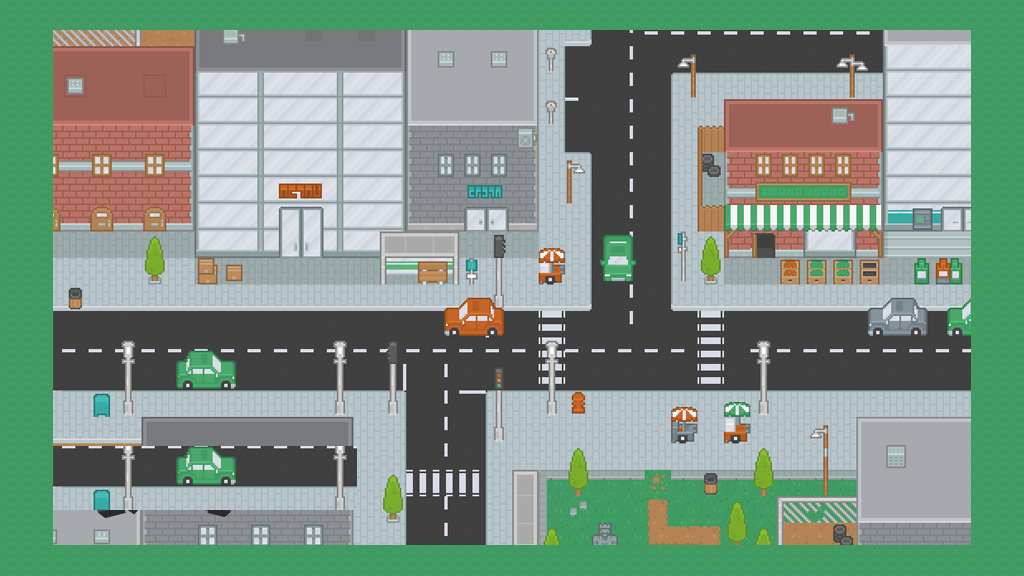
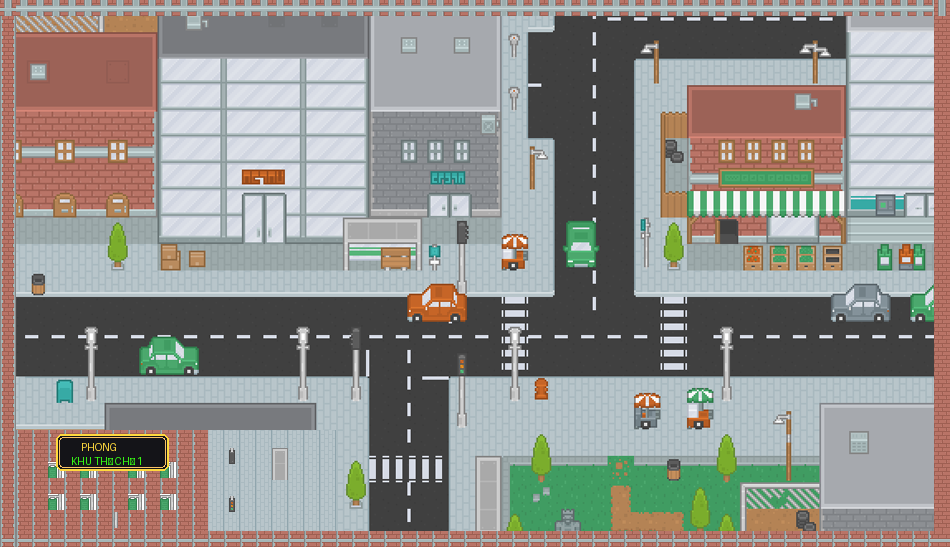
feat: wrap screen with 1-block red brick border, replace glitch with PHONG institutional building, and tighten padding

diff --git a/src/game/scenes/HubScene.ts b/src/game/scenes/HubScene.ts
@@ -55,27 +55,26 @@ export class HubScene extends Scene {
     const { width, height } = this.scale;
     this.interactiveTargets = [];
 
-    // 1. Lớp nền thành phố chuẩn mực (1024x576)
+    // 1. Lớp nền thành phố có viền 1 block gạch đỏ bao quanh toàn màn hình (950x547)
     this.add
       .image(0, 0, 'city-base')
       .setOrigin(0, 0)
       .setDisplaySize(width, height);
 
     // ============================================================
-    // 2. CỬA RA VÀO CÁC TÒA NHÀ TRÊN VỈA HÈ (GROUND-LEVEL ENTRANCES)
-    // Người chơi đi trên vỉa hè (y ~ 220-240) và bước vào cửa chính
+    // 2. CỬA TÒA NHÀ MẶT ĐẤT TRÊN VỈA HÈ (GROUND-LEVEL DOORS)
     // ============================================================
 
-    // 📚 Thư Viện Tri Thức (Cửa tại x=128, y=235)
+    // 📚 Thư Viện Tri Thức (Cửa tại x=101, y=220)
     this.createBuildingPortal({
-      x: 128,
-      y: 235,
-      w: 90,
-      h: 50,
+      x: 101,
+      y: 220,
+      w: 85,
+      h: 40,
       label: 'Thư Viện Tri Thức',
       icon: '📚',
       color: 0x10b981,
-      doorY: 200,
+      doorY: 190,
       onClick: () => {
         EventBus.emit('request-transition', {
           target: 'knowledge',
@@ -85,16 +84,16 @@ export class HubScene extends Scene {
       },
     });
 
-    // 🔭 Đài Quan Sát (Cửa tại x=318, y=235)
+    // 🔭 Đài Quan Sát (Cửa tại x=281, y=220)
     this.createBuildingPortal({
-      x: 318,
-      y: 235,
+      x: 281,
+      y: 220,
       w: 80,
-      h: 50,
+      h: 40,
       label: 'Đài Quan Sát',
       icon: '🔭',
       color: 0x0ea5e9,
-      doorY: 200,
+      doorY: 190,
       onClick: () => {
         EventBus.emit('request-transition', {
           target: 'knowledge',
@@ -104,16 +103,16 @@ export class HubScene extends Scene {
       },
     });
 
-    // 🎯 Tòa Thử Thách (Cửa kính lớn tại x=543, y=235)
+    // 🎯 Tòa Thử Thách (Cửa kính lớn tại x=496, y=220)
     this.createBuildingPortal({
-      x: 543,
-      y: 235,
-      w: 120,
-      h: 50,
+      x: 496,
+      y: 220,
+      w: 110,
+      h: 45,
       label: 'Tòa Thử Thách',
       icon: '🎯',
       color: 0xf59e0b,
-      doorY: 195,
+      doorY: 185,
       onClick: () => {
         EventBus.emit('request-transition', {
           target: 'quiz',
@@ -123,16 +122,16 @@ export class HubScene extends Scene {
       },
     });
 
-    // 🗄 Chợ Thuật Ngữ (Cửa mái hiên tại x=763, y=235)
+    // 🗄 Chợ Thuật Ngữ (Cửa mái hiên tại x=716, y=220)
     this.createBuildingPortal({
-      x: 763,
-      y: 235,
-      w: 100,
-      h: 50,
+      x: 716,
+      y: 220,
+      w: 95,
+      h: 40,
       label: 'Chợ Thuật Ngữ',
       icon: '🗄',
       color: 0x14b8a6,
-      doorY: 195,
+      doorY: 185,
       onClick: () => {
         EventBus.emit('request-transition', {
           target: 'knowledge',
@@ -141,17 +140,36 @@ export class HubScene extends Scene {
         });
       },
     });
+
+    // 🏛 KHU THỂ CHẾ 1 (TÒA NHÀ PHONG & QUẢN LÝ THỂ CHẾ - Góc Tây Nam)
+    this.createBuildingPortal({
+      x: 112,
+      y: 496,
+      w: 100,
+      h: 45,
+      label: 'Trụ Sở Thể Chế (Khu 1)',
+      icon: '🏛',
+      color: 0xef4444,
+      doorY: 450,
+      onClick: () => {
+        EventBus.emit('request-transition', {
+          target: 'battle',
+          label: 'Khu Thể Chế 1 • Tòa Nhà PHONG',
+          variant: 'battle',
+        });
+      },
+    });
+
     // ============================================================
-    // 3. LỐI ĐI SANG CÁC MAP MỚI (ROAD TRANSITION PORTALS)
+    // 3. CÁC LỐI ĐI SANG MAP MỚI (ROAD TRANSITIONS)
     // ============================================================
 
     // ⬇ CỔNG NAM: ĐƯỜNG ĐẾN PHỐ THỂ CHẾ (KHU 1)
-    // Nằm ở cuối đường đi bộ phía Nam ngã ba (x=543, y=510)
     this.createRoadPortal({
-      x: 543,
-      y: 505,
+      x: 506,
+      y: 495,
       w: 160,
-      h: 40,
+      h: 36,
       label: 'Phố Thể Chế (Khu 1)',
       icon: '⬇',
       color: 0xef4444,
@@ -165,16 +183,15 @@ export class HubScene extends Scene {
     });
 
     // ➡ CỔNG ĐÔNG: CHỐT CHẶN QUA PHỐ LỢI ÍCH (KHU 2 - NƠI CỨU PHONG)
-    // Nằm ở đầu đại lộ phía Đông (x=895, y=285)
     this.createEastDistrict2Checkpoint(width, height, isKhu2Open);
 
     // ============================================================
-    // 4. NHÂN VẬT NGƯỜI CHƠI (SPAWN TẠI VỈA HÈ CÔNG VIÊN AN TOÀN)
+    // 4. NHÂN VẬT NGƯỜI CHƠI (SPAWN TẠI CÔNG VIÊN TRUNG TÂM)
     // ============================================================
-    this.createPlayer(480, 410, progress.playerName || 'Nhà Cải Cách');
+    this.createPlayer(456, 406, progress.playerName || 'Nhà Cải Cách');
 
     // ============================================================
-    // 5. BONG BÓNG TƯƠNG TÁC
+    // 5. BONG BÓNG NHẮC NHỞ TƯƠNG TÁC
     // ============================================================
     this.createProximityPrompt();
 
@@ -184,14 +201,14 @@ export class HubScene extends Scene {
     this.add
       .text(
         width / 2,
-        height - 12,
+        height - 10,
         '🎮 Dùng [W-A-S-D] / [Mũi Tên] đi đến cửa tòa nhà hoặc đầu đường để chuyển map • Hoặc nhấp chuột trực tiếp!',
         {
           fontFamily: 'Be Vietnam Pro',
-          fontSize: '10.5px',
+          fontSize: '10px',
           color: '#fef08a',
-          backgroundColor: '#0a0a0fee',
-          padding: { x: 12, y: 3 },
+          backgroundColor: '#0a0a0ff0',
+          padding: { x: 12, y: 2 },
           fontStyle: 'bold',
         }
       )
@@ -307,9 +324,9 @@ export class HubScene extends Scene {
 
     if (isMoving) {
       this.lastFacing = facing;
-      // Giới hạn vùng di chuyển của nhân vật an toàn trong phạm vi vỉa hè & đường phố (KHÔNG RA NGOÀI RÌA MAP)
-      this.player.x = Phaser.Math.Clamp(this.player.x + dx, 60, this.scale.width - 60);
-      this.player.y = Phaser.Math.Clamp(this.player.y + dy, 220, this.scale.height - 45);
+      // Di chuyển an toàn bên trong viền gạch đỏ (1 block = 16px): từ x: 24..926, y: 210..523
+      this.player.x = Phaser.Math.Clamp(this.player.x + dx, 26, this.scale.width - 26);
+      this.player.y = Phaser.Math.Clamp(this.player.y + dy, 215, this.scale.height - 30);
 
       this.walkStepTimer += delta;
       if (this.walkStepTimer > 150) {
@@ -359,23 +376,17 @@ export class HubScene extends Scene {
     }
   }
 
-  /**
-   * Tạo cửa tòa nhà ở mặt đất trên vỉa hè (Ground-level entrance)
-   * Kèm thảm phát sáng và biển hiệu phía trên cửa
-   */
   private createBuildingPortal(options: InteractivePortal) {
     this.interactiveTargets.push(options);
     const { x, y, w, h, label, icon, color, onClick, doorY } = options;
 
     const container = this.add.container(x, y);
 
-    // Vùng bước chân trước cửa (Thảm đón)
     const doorMat = this.add
       .rectangle(0, 0, w, 22, color, 0.25)
       .setStrokeStyle(1.5, color, 0.8)
       .setInteractive({ useHandCursor: true });
 
-    // Hiệu ứng nhấp nháy thảm cửa
     this.tweens.add({
       targets: doorMat,
       alpha: 0.5,
@@ -384,7 +395,6 @@ export class HubScene extends Scene {
       duration: 800,
     });
 
-    // Biển hiệu tên tòa nhà nằm ngay phía trên cửa (y ~ 190-205, CÁCH RẤT XA ĐỈNH MÀN HÌNH NÊN KHÔNG BỊ CẮT)
     const signY = (doorY ?? y - 35) - y;
     const signW = label.length * 7.4 + 26;
 
@@ -426,9 +436,6 @@ export class HubScene extends Scene {
     return container;
   }
 
-  /**
-   * Tạo lối đi chuyển map trên đường (Road Portal)
-   */
   private createRoadPortal(options: InteractivePortal) {
     this.interactiveTargets.push({ ...options, isPortal: true });
     const { x, y, w, h, label, icon, color, onClick } = options;
@@ -449,7 +456,6 @@ export class HubScene extends Scene {
       })
       .setOrigin(0.5);
 
-    // Hiệu ứng mũi tên đung đưa
     this.tweens.add({
       targets: portalText,
       y: '+=3',
@@ -464,20 +470,16 @@ export class HubScene extends Scene {
     return container;
   }
 
-  /**
-   * Tạo chốt chặn đường sang Khu 2 ở phía Đông
-   */
   private createEastDistrict2Checkpoint(width: number, height: number, isOpen: boolean) {
-    const cp_x = 890;
+    const cp_x = 836;
     const cp_y = 285;
 
     if (isOpen) {
-      // Đã mở khóa: Cổng mở xanh
       this.createRoadPortal({
         x: cp_x,
         y: cp_y,
         w: 160,
-        h: 40,
+        h: 38,
         label: 'Phố Lợi Ích (Cứu Phong)',
         icon: '➡',
         color: 0x39ff14,
@@ -491,7 +493,7 @@ export class HubScene extends Scene {
       });
 
       this.add
-        .text(cp_x, cp_y - 30, '✨ ĐÃ MỞ KHÓA ✨', {
+        .text(cp_x, cp_y - 28, '✨ ĐÃ MỞ KHÓA MAP 2 ✨', {
           fontFamily: 'Be Vietnam Pro',
           fontSize: '9px',
           color: '#39ff14',
@@ -499,30 +501,29 @@ export class HubScene extends Scene {
         })
         .setOrigin(0.5);
     } else {
-      // Đang khóa: Chốt chặn kiểm soát
       const barrierContainer = this.add
         .container(cp_x, cp_y)
-        .setSize(180, 50)
+        .setSize(170, 48)
         .setDepth(15)
         .setInteractive({ useHandCursor: true });
 
       const bg = this.add
-        .rectangle(0, 0, 180, 45, 0x0a0a0f, 0.94)
+        .rectangle(0, 0, 170, 44, 0x0a0a0f, 0.94)
         .setStrokeStyle(2, 0xff4757, 1);
 
       const title = this.add
-        .text(0, -8, '🔒 CHỐT CHẶN KHU 2', {
+        .text(0, -8, '🔒 CHỐT CHẶN MAP 2', {
           fontFamily: 'Be Vietnam Pro',
-          fontSize: '10.5px',
+          fontSize: '10px',
           color: '#ff4757',
           fontStyle: 'bold',
         })
         .setOrigin(0.5);
 
       const sub = this.add
-        .text(0, 10, `Cần ${REQUIRED_BADGES_FOR_KHU_2} Huy hiệu Thể chế`, {
+        .text(0, 9, `Cần ${REQUIRED_BADGES_FOR_KHU_2} Huy hiệu Thể chế`, {
           fontFamily: 'Be Vietnam Pro',
-          fontSize: '8.5px',
+          fontSize: '8px',
           color: '#e8e8e8',
         })
         .setOrigin(0.5);
@@ -540,41 +541,39 @@ export class HubScene extends Scene {
 
         EventBus.emit('locked-zone-clicked', {
           zone: 'khu-2',
-          message: `Chốt chặn đóng! Bạn cần đạt ${REQUIRED_BADGES_FOR_KHU_2} Huy hiệu Thể chế Khu 1 để được qua Phố Lợi Ích giải cứu Phong!`,
+          message: `Chốt chặn đóng! Bạn cần đạt ${REQUIRED_BADGES_FOR_KHU_2} Huy hiệu Thể chế Khu 1 để mở khóa Map 2 giải cứu Phong!`,
         });
       };
 
       barrierContainer.on('pointerdown', onBlocked);
 
-      // Thêm vào danh sách tương tác khi đi gần
       this.interactiveTargets.push({
         x: cp_x,
         y: cp_y,
-        w: 180,
-        h: 50,
-        label: 'Chốt chặn Khu 2 (Cần 3 Huy hiệu)',
+        w: 170,
+        h: 48,
+        label: 'Chốt chặn Map 2 (Cần 3 Huy hiệu)',
         icon: '🔒',
         color: 0xff4757,
         onClick: onBlocked,
         isPortal: true,
       });
 
-      // Lớp mây sương mù che phủ toàn bộ khu vực phía sau chốt chặn
       this.add
-        .rectangle(cp_x - 30, 0, width - (cp_x - 30), height, 0x0a0a0f, 0.6)
+        .rectangle(cp_x - 10, 0, width - (cp_x - 10), height, 0x0a0a0f, 0.6)
         .setOrigin(0, 0)
         .setDepth(10);
 
       const cloudPositions = [
         { x: cp_x + 30, y: 120, key: 'cloud_large', dur: 3400, dist: 15 },
-        { x: cp_x + 70, y: 220, key: 'cloud_medium', dur: 2800, dist: 12 },
-        { x: cp_x + 40, y: 380, key: 'cloud_large', dur: 3600, dist: 18 },
+        { x: cp_x + 60, y: 220, key: 'cloud_medium', dur: 2800, dist: 12 },
+        { x: cp_x + 35, y: 380, key: 'cloud_large', dur: 3600, dist: 18 },
       ];
 
       for (const cp of cloudPositions) {
         const c = this.add
           .image(cp.x, cp.y, cp.key)
-          .setScale(1.5)
+          .setScale(1.4)
           .setAlpha(0.9)
           .setDepth(12);
 

diff --git a/src/game/main.ts b/src/game/main.ts
@@ -6,8 +6,8 @@ import { BattleScene } from './scenes/BattleScene';
 
 export const config: Phaser.Types.Core.GameConfig = {
   type: AUTO,
-  width: 1024,
-  height: 576,
+  width: 950,
+  height: 547,
   parent: 'game-container',
   backgroundColor: '#0a0a0f',
   pixelArt: true,
